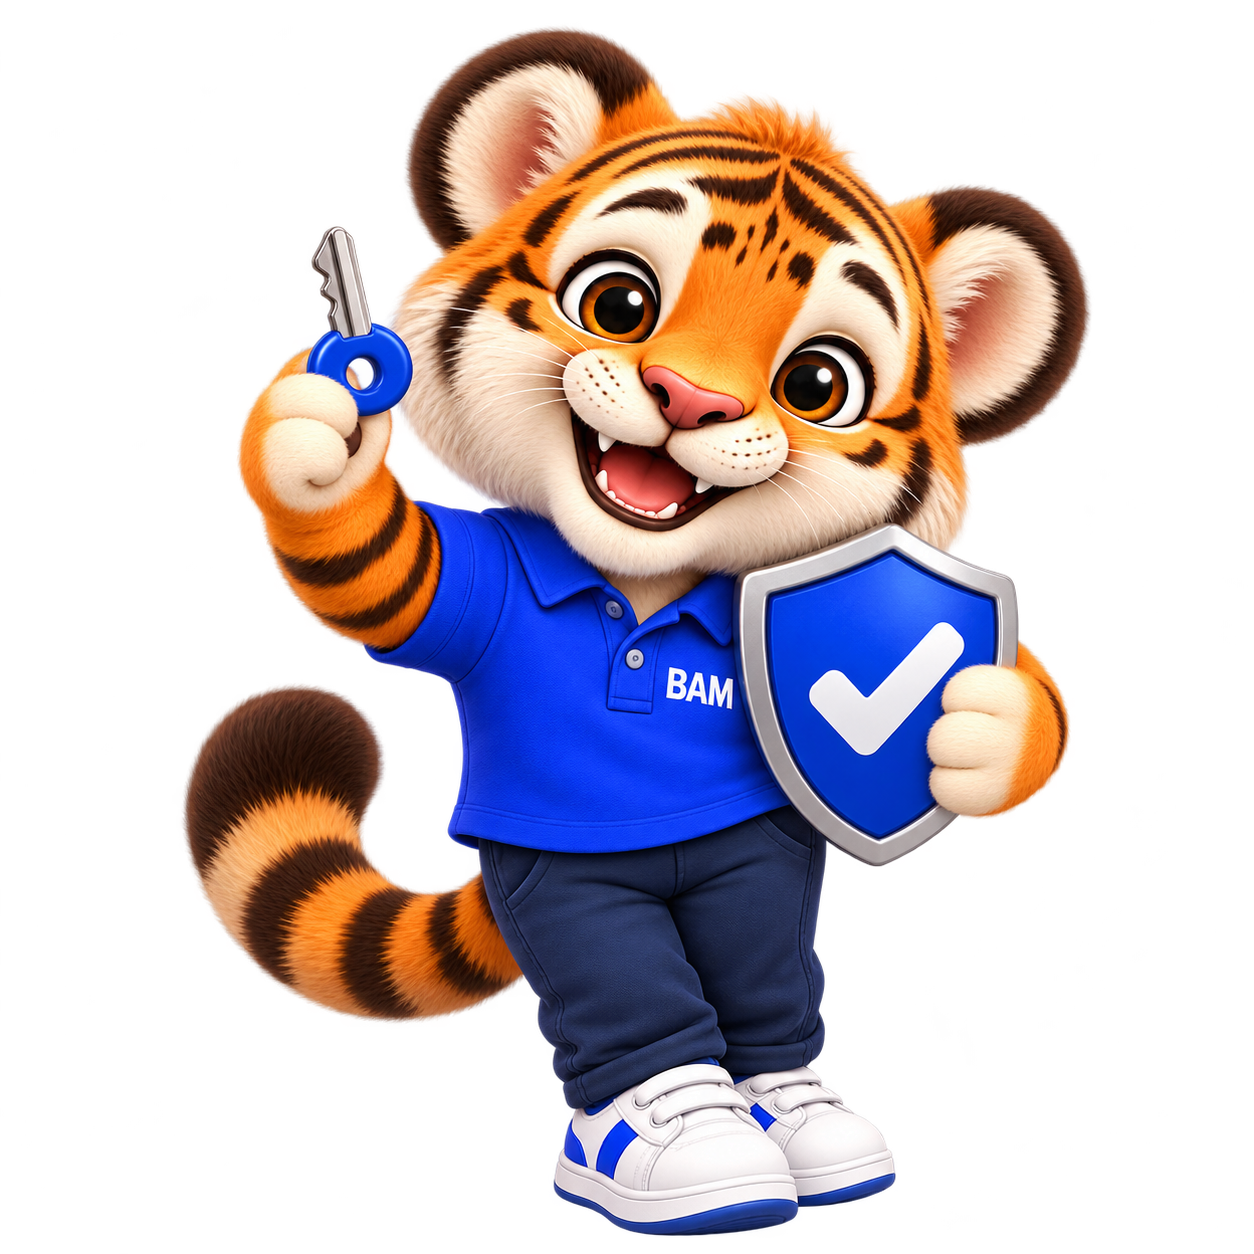
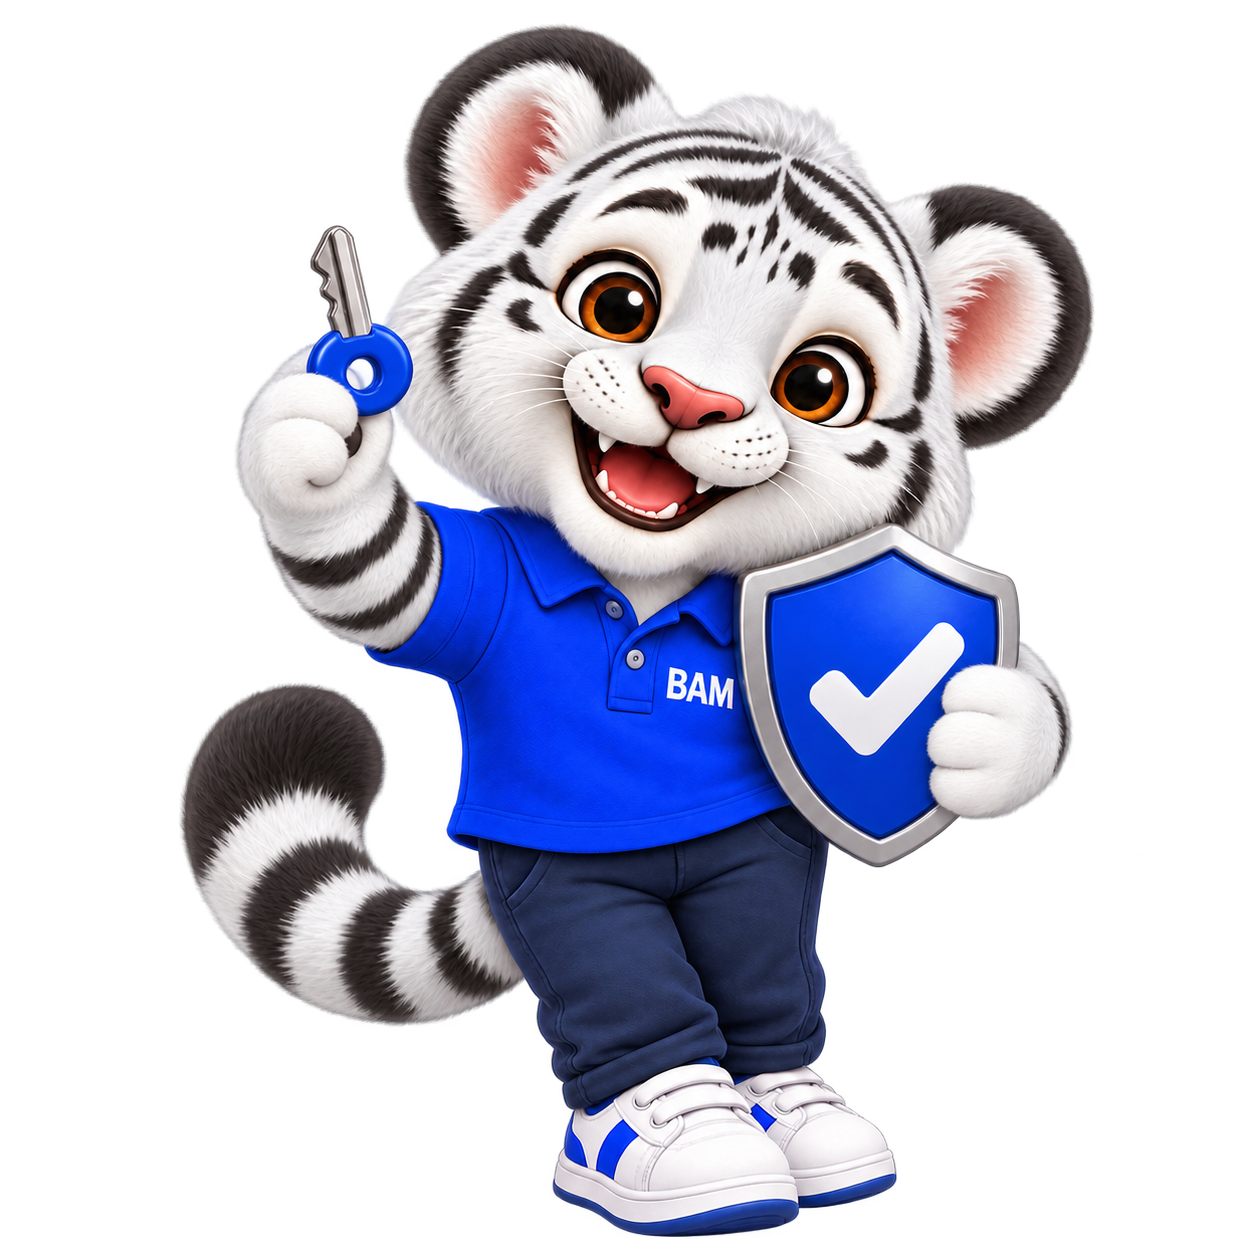
feat(ui): replace BAM tiger poses with white mascots (CR-029)

diff --git a/frontend/src/components/shared/mascot.tsx b/frontend/src/components/shared/mascot.tsx
@@ -1,16 +1,16 @@
 import Image from "next/image";
 import { cn } from "@/lib/utils";
 
-// The BAM tiger (D-094, CR-019): five poses, masters in public/brand/bam-mascot-*.png, served as trimmed
-// WebP exports. Never stretch, recolor or redraw it.
+// White BAM tiger (CR-029): PNG masters and matching WebP exports in public/brand.
+// White-specific filenames also refresh previously optimised orange-tiger images.
 const SOURCES = {
-  welcome: { src: "/brand/bam-mascot-welcome.webp", width: 493, height: 560 },
-  guide: { src: "/brand/bam-mascot-guide.webp", width: 514, height: 560 },
-  review: { src: "/brand/bam-mascot-review.webp", width: 469, height: 560 },
-  tracking: { src: "/brand/bam-mascot-tracking.webp", width: 397, height: 560 },
-  loading: { src: "/brand/bam-mascot-loading.webp", width: 428, height: 560 },
+  welcome: { src: "/brand/bam-mascot-welcome-white.webp", width: 493, height: 560 },
+  guide: { src: "/brand/bam-mascot-guide-white.webp", width: 514, height: 560 },
+  review: { src: "/brand/bam-mascot-review-white.webp", width: 469, height: 560 },
+  tracking: { src: "/brand/bam-mascot-tracking-white.webp", width: 397, height: 560 },
+  loading: { src: "/brand/bam-mascot-loading-white.webp", width: 428, height: 560 },
   // S01 login (CR-019 follow-up, bam-workplace-login-v7.html): presenting, with the staff badge.
-  login: { src: "/brand/bam-mascot-login.webp", width: 631, height: 640 }, // untrimmed, as the prototype frames it
+  login: { src: "/brand/bam-mascot-login-white.webp", width: 631, height: 640 },
 } as const;
 
 export type MascotPose = keyof typeof SOURCES;
@@ -21,22 +21,31 @@ type MascotProps = {
   size?: number;
   className?: string;
   priority?: boolean;
+  /** Flat contrasting backdrop; use none when the surrounding hero already provides contrast. */
+  surface?: "blue" | "sage" | "warm" | "none";
 };
 
 /** Decorative BAM mascot (`aria-hidden`). */
-export function Mascot({ pose = "welcome", size = 120, className, priority }: MascotProps) {
+export function Mascot({ pose = "welcome", size = 120, className, priority, surface = "blue" }: MascotProps) {
   const s = SOURCES[pose];
   const width = Math.round((s.width / s.height) * size);
   return (
-    <Image
-      src={s.src}
-      alt=""
+    <span
       aria-hidden="true"
-      width={width}
-      height={size}
-      priority={priority}
-      className={cn("pointer-events-none select-none object-contain", className)}
+      data-mascot={pose}
+      data-surface={surface}
+      className={cn("mascot-frame pointer-events-none relative inline-block shrink-0 select-none align-middle", className)}
       style={{ width, height: size }}
-    />
+    >
+      <Image
+        src={s.src}
+        alt=""
+        aria-hidden="true"
+        width={width}
+        height={size}
+        priority={priority}
+        className="mascot-image relative size-full object-contain"
+      />
+    </span>
   );
 }

diff --git a/frontend/src/app/(auth)/login/login.css b/frontend/src/app/(auth)/login/login.css
@@ -254,3 +254,36 @@
   .bl-spin { animation: none; }
 }
 
+/* CR-029: cool workplace palette and a full-height sage backdrop for the white tiger.
+   Keep the established composition and measured viewport fitting. */
+.bl-page { background: var(--background); color: var(--foreground); }
+.bl-title { color: var(--foreground); }
+.bl-title > span { color: var(--primary); }
+.bl-title > span::after { border-color: var(--mascot-blue); }
+.bl-brandCaption, .bl-description, .bl-accountNote, .bl-servicesTitle,
+.bl-mascotLabel, .bl-footer, .bl-footerHelp { color: var(--muted-foreground); }
+.bl-eyebrow { background: var(--secondary); color: var(--secondary-foreground); border-color: var(--border); }
+.bl-eyebrow > span { background: var(--primary); }
+.bl-help, .bl-serviceList > li, .bl-card, .bl-speech { background: var(--card); border-color: var(--border); }
+.bl-help, .bl-serviceList > li, .bl-cardEyebrow, .bl-room .bl-cardCopy p,
+.bl-account p, .bl-tags span, .bl-car .bl-tags span { color: var(--muted-foreground); }
+.bl-card h3, .bl-car h3 { color: var(--foreground); }
+.bl-help:hover { background: var(--secondary); border-color: var(--mascot-edge); }
+.bl-cta { border-color: var(--primary); background: var(--primary); color: var(--primary-foreground); }
+.bl-cta:hover:not(:disabled) { background: var(--secondary-foreground); }
+.bl-cta:focus-visible, .bl-help:focus-visible, .bl-footerHelp:focus-visible { outline-color: var(--ring); }
+.bl-maintenance, .bl-repairArt, .bl-check { background: var(--secondary); color: var(--primary); }
+.bl-repairArt > svg { stroke: var(--primary); box-shadow: 0 6px 0 var(--mascot-blue); }
+.bl-spark, .bl-speech span { color: var(--primary); }
+.bl-dot { background: var(--mascot-blue); }
+.bl-vehicle, .bl-carArt { background: color-mix(in srgb, var(--mascot-blue) 25%, var(--card)); color: var(--svc-car); }
+.bl-carArt > svg { stroke: var(--svc-car); }
+.bl-meeting, .bl-roomArt { background: color-mix(in srgb, var(--mascot-sage) 25%, var(--card)); color: var(--success); }
+.bl-roomArt > svg { stroke: var(--success); }
+.bl-slots i { background: var(--mascot-sage); }
+.bl-slots i:nth-child(2) { background: var(--success); }
+.bl-halo { inset: 0; border-radius: 40% 44% 30% 32%; background: var(--mascot-sage); border: 1px solid var(--mascot-edge); }
+.bl-mascot { padding: 8px; filter: drop-shadow(0 4px 3px rgb(23 32 51 / 18%)); }
+.bl-speech { color: var(--secondary-foreground); }
+@media (max-width: 1050px) { .bl-halo { inset: 0; } }
+

diff --git a/frontend/src/app/globals.css b/frontend/src/app/globals.css
@@ -58,6 +58,11 @@
   --svc-repair: #F97316;             /* แจ้งซ่อม */
   --svc-car: #0284C7;                /* จองรถ */
   --svc-room: #0D9488;               /* จองห้องประชุม */
+  /* CR-029: mid-tone surfaces separate white fur from light cards. */
+  --mascot-blue: #A9C2D8;
+  --mascot-sage: #ABC7BF;
+  --mascot-warm: #D2C0A3;
+  --mascot-edge: #7D9EB9;
 }
 
 /* Theme "โทนสบายตา" (D-069), built from the owner's palette #2741FA · #C5CBD3 · #8CBCB9 · #DDA448.
@@ -91,6 +96,10 @@
   --svc-repair: #C9822B;
   --svc-car: #3D8A84;
   --svc-room: #2F7FB0;
+  --mascot-blue: #AEC2D1;
+  --mascot-sage: #A3BFB9;
+  --mascot-warm: #CDBB9E;
+  --mascot-edge: #7D999F;
 }
 
 @theme inline {
@@ -146,6 +155,10 @@
   --color-svc-repair: var(--svc-repair);
   --color-svc-car: var(--svc-car);
   --color-svc-room: var(--svc-room);
+  --color-mascot-blue: var(--mascot-blue);
+  --color-mascot-sage: var(--mascot-sage);
+  --color-mascot-warm: var(--mascot-warm);
+  --color-mascot-edge: var(--mascot-edge);
 
   --shadow-card: 0 1px 2px rgb(24 34 56 / 0.04);                 /* panels */
   --shadow-raised: 0 10px 28px -16px rgb(24 34 56 / 0.25);       /* review card, success card, dialogs */
@@ -168,6 +181,21 @@
   background-color: color-mix(in srgb, var(--c) 14%, #fff);
   color: var(--c);
 }
+
+/* CR-029: local backdrops keep white ears, paws and shoes visible on every light surface.
+   The frame owns layout so responsive visibility and Home's absolute positioning still work. */
+.mascot-frame:not([data-surface="none"])::before {
+  content: "";
+  position: absolute;
+  inset: 0;
+  border-radius: 38% 42% 28% 32%;
+  background: var(--mascot-blue);
+  border: 1px solid color-mix(in srgb, var(--mascot-edge) 45%, transparent);
+}
+.mascot-frame[data-surface="sage"]::before { background: var(--mascot-sage); }
+.mascot-frame[data-surface="warm"]::before { background: var(--mascot-warm); }
+.mascot-frame:not([data-surface="none"]) .mascot-image { padding: 5%; }
+.mascot-image { filter: drop-shadow(0 2px 2px rgb(23 32 51 / 16%)); }
 
 /* S07 print report (A4). */
 @media print {

diff --git a/frontend/src/components/shared/states.tsx b/frontend/src/components/shared/states.tsx
@@ -22,11 +22,11 @@ export function EmptyState({ title, hint, action, className }: EmptyStateProps) 
   return (
     <div
       className={cn(
-        "flex flex-col items-center rounded-xl bg-linear-to-b from-secondary to-status-resolved/5 px-6 py-8 text-center",
+        "flex flex-col items-center rounded-xl border bg-card px-6 py-8 text-center",
         className,
       )}
     >
-      <Mascot pose="guide" size={120} />
+      <Mascot pose="guide" size={120} surface="sage" />
       <h3 className="mt-3 font-heading text-base font-semibold">{title}</h3>
       {hint && <p className="mt-1 text-[13.5px] text-muted-foreground">{hint}</p>}
       {action && <div className="mt-4">{action}</div>}
@@ -68,7 +68,7 @@ export function ErrorState({
   }
   return (
     <div role="alert" className={cn("flex flex-col items-center px-6 py-12 text-center", className)}>
-      <Mascot pose="loading" size={140} />
+      <Mascot pose="loading" size={140} surface="warm" />
       <h2 className="mt-4 font-heading text-lg font-semibold">{title}</h2>
       <p className="mt-1 text-[13.5px] text-muted-foreground">{hint}</p>
       {onRetry && (
@@ -98,7 +98,7 @@ export function ForbiddenState({
 }: ForbiddenStateProps) {
   return (
     <div className={cn("flex flex-col items-center px-6 py-12 text-center", className)}>
-      <Mascot pose="review" size={140} />
+      <Mascot pose="review" size={140} surface="blue" />
       <h2 className="mt-4 font-heading text-lg font-semibold">{title}</h2>
       {reason && <p className="mt-1 text-[13.5px] text-muted-foreground">{reason}</p>}
       <Button asChild className="mt-5">

diff --git a/frontend/src/modules/repair/components/dashboard/admin-dashboard.tsx b/frontend/src/modules/repair/components/dashboard/admin-dashboard.tsx
@@ -76,7 +76,7 @@ export function AdminDashboard() {
   if (state === "forbidden") return <ForbiddenState />;
 
   return <div className="px-4 pb-8 lg:px-0">
-    <div className="mt-2 mb-6 flex flex-wrap items-center gap-x-4 gap-y-3">
+    <div className="mt-2 mb-6 flex flex-wrap items-center gap-x-4 gap-y-3 rounded-2xl border border-mascot-edge/30 bg-mascot-blue/15 p-4 sm:p-5">
       <div className="flex min-w-60 flex-1 items-center gap-4">
         <Mascot pose="welcome" size={104} className="hidden shrink-0 sm:block" priority />
         <Mascot pose="welcome" size={76} className="shrink-0 sm:hidden" priority />
@@ -193,7 +193,7 @@ function AttentionPanel({ overview }: { overview: Overview | null }) {
   return <Panel title="งานที่ควรติดตาม" sub="เลยกำหนด ส่งกลับ หรือเร่งด่วน" count={overview?.attention.length} labelledBy="attention-title" className="flex flex-col">
     {!list ? <div className="space-y-2 px-5 pb-5">{[...Array(3)].map((_, i) => <Skeleton key={i} className="h-12" />)}</div>
       : list.length === 0 ? <div className="flex flex-col items-center gap-2 border-t px-5 py-6 text-center">
-          <Mascot pose="review" size={72} />
+          <Mascot pose="review" size={72} surface="sage" />
           <p className="text-sm text-muted-foreground">ไม่มีงานที่ต้องติดตาม</p>
         </div>
       : list.map((t) => {

diff --git a/frontend/src/modules/repair/components/ticket-detail.tsx b/frontend/src/modules/repair/components/ticket-detail.tsx
@@ -142,11 +142,11 @@ type Actions = ReturnType<typeof useTicketActions>;
 
 function ReviewBand({ ticket, actions }: { ticket: TicketDetail; actions: Actions }) {
   const autoClose = ticket.autoCloseAt ? `${shortDate(ticket.autoCloseAt, true)} เวลา ${timeOf(ticket.autoCloseAt)} น.` : "";
-  return <section aria-labelledby="review-title" className="bg-muted/40 px-4 pt-4 sm:px-7 sm:pt-5 print:hidden">
+  return <section aria-labelledby="review-title" className="border-y border-attention/15 bg-attention/5 px-4 pt-4 sm:px-7 sm:pt-5 print:hidden">
     <div className="grid gap-x-8 gap-y-3 md:grid-cols-[minmax(0,1fr)_auto] md:items-center">
       <div className="flex items-center gap-4">
-        <Mascot pose="review" size={96} className="hidden shrink-0 sm:block" />
-        <Mascot pose="review" size={72} className="shrink-0 sm:hidden" />
+        <Mascot pose="review" size={96} surface="warm" className="hidden shrink-0 sm:block" />
+        <Mascot pose="review" size={72} surface="warm" className="shrink-0 sm:hidden" />
         <div className="min-w-0">
           <h2 id="review-title" className="text-lg leading-7 font-semibold">ซ่อมเสร็จแล้ว งานซ่อมเป็นอย่างไรบ้าง?</h2>
           <p className="text-[13px] leading-5 text-muted-foreground">ตรวจผลซ่อมด้านล่าง แล้วให้คะแนนความพึงพอใจ</p>

diff --git a/frontend/src/modules/repair/components/report-success.tsx b/frontend/src/modules/repair/components/report-success.tsx
@@ -36,7 +36,7 @@ export function ReportSuccessScreen() {
   return <><PageHeader title="แจ้งซ่อมใหม่" variant="none" />
     {loading ? <TicketSkeleton success /> : error ? <TicketFailure error={error} onRetry={reload} success /> : ticket && (ticket.viewerRelation !== "reporter" ? <ForbiddenState reason="หน้านี้แสดงเฉพาะงานที่คุณแจ้ง" /> :
       <section aria-live="polite" className="mx-3 my-4 max-w-150 rounded-xl border bg-card px-4 py-6 text-center shadow-raised sm:mx-auto sm:px-8">
-        <div className="flex justify-center"><Mascot pose="welcome" size={120} priority /></div>
+        <div className="flex justify-center"><Mascot pose="welcome" size={120} surface="sage" priority /></div>
         <h1 ref={heading} tabIndex={-1} className="mt-2 text-2xl leading-9 font-semibold outline-none">{team ? "บันทึกงานทีมเรียบร้อย" : "รับเรื่องแล้ว"}</h1>
         <p className="mt-1 text-sm text-muted-foreground">เลขงานของคุณ</p>
         <CopyTicketNumber value={ticket.ticketNo} large />

diff --git a/frontend/src/app/(app)/page.tsx b/frontend/src/app/(app)/page.tsx
@@ -56,7 +56,7 @@ function EmployeeHome() {
         </header>
 
         <section className="relative mx-4 -mt-13.5 rounded-[26px] bg-card p-4.5 shadow-float">
-          <Mascot pose="welcome" size={104} className="absolute -top-25 right-3" />
+          <Mascot pose="welcome" size={104} surface="none" className="absolute -top-25 right-3" />
           <h2 className="font-heading text-lg font-semibold">เจออะไรเสีย บอก BAMBAM</h2>
           <p className="mt-0.5 mb-3.5 text-[13.5px] text-muted-foreground">ถ่ายรูป เลือกอาการ ส่งถึงช่างในหมวดนั้นทันที</p>
           <div className="flex gap-2.5">
@@ -120,7 +120,7 @@ function EmployeeHome() {
               <Link href="/repair/my">ติดตามงานซ่อม</Link>
             </Button>
           </div>
-          <Mascot pose="welcome" size={208} className="absolute right-17 -bottom-1.5" />
+          <Mascot pose="welcome" size={184} surface="none" className="absolute right-17 bottom-2" />
         </section>
 
         <div className="my-5 grid grid-cols-3 gap-4.5">

diff --git a/frontend/src/modules/repair/components/my-tickets.tsx b/frontend/src/modules/repair/components/my-tickets.tsx
@@ -116,7 +116,7 @@ export function MyTicketsScreen() {
   return <div className="space-y-4 px-4 pt-4 pb-8 lg:space-y-5 lg:px-0 lg:pt-2">
     <div className="grid gap-4 lg:grid-cols-[minmax(0,1fr)_23rem] lg:gap-5">
       {/* Leads' CTA card holds two buttons, so their hero scales up to fill the taller row (owner, 2026-10-26). */}
-      <header className={cn("flex items-center gap-4 rounded-xl border bg-card px-4 py-4 shadow-card sm:px-8 sm:py-5", lead ? "sm:gap-7" : "sm:gap-6")}>
+      <header className={cn("flex items-center gap-4 rounded-xl border border-mascot-edge/35 bg-mascot-blue/15 px-4 py-4 shadow-card sm:px-8 sm:py-5", lead ? "sm:gap-7" : "sm:gap-6")}>
         <Mascot pose="tracking" size={lead ? 160 : 120} className="hidden shrink-0 sm:block" priority />
         <Mascot pose="tracking" size={84} className="shrink-0 sm:hidden" priority />
         <div className="min-w-0">

diff --git a/frontend/src/modules/settings/components/settings-heading.tsx b/frontend/src/modules/settings/components/settings-heading.tsx
@@ -32,7 +32,9 @@ export function SettingsHeading({ title, subtitle, action }: Props) {
           <h1 className="font-heading text-2xl leading-tight font-semibold lg:text-3xl">{title}</h1>
           {subtitle && <p className="mt-1.5 text-[13.5px] text-muted-foreground">{subtitle}</p>}
         </div>
-        <Image src={mascot.src} alt={mascot.alt} width={112} height={112} className="size-18 shrink-0 object-contain lg:size-28" />
+        <span aria-hidden="true" data-mascot="settings" data-surface={me.role === "super_admin" ? "blue" : "sage"} className="mascot-frame relative size-18 shrink-0 lg:size-28">
+          <Image src={mascot.src} alt={mascot.alt} width={112} height={112} className="mascot-image relative size-full object-contain" />
+        </span>
       </div>
       {action && <div className="ml-11 shrink-0 lg:ml-0">{action}</div>}
     </div>

diff --git a/frontend/src/modules/repair/components/report-form.tsx b/frontend/src/modules/repair/components/report-form.tsx
@@ -489,7 +489,7 @@ function ReportFormBody({ team, canTeam }: { team: boolean; canTeam: boolean }) 
         <li aria-current="page" className="text-foreground">{team ? "บันทึกงานที่ทีมแก้แล้ว" : "แจ้งซ่อมใหม่"}</li>
       </ol>
     </nav>
-    <div className="mt-3 mb-4 flex flex-wrap items-center gap-x-5 gap-y-1 lg:mb-5">
+    <div className="mt-3 mb-4 flex flex-wrap items-center gap-x-5 gap-y-1 rounded-2xl border border-mascot-edge/30 bg-mascot-blue/15 p-4 lg:mb-5 lg:p-5">
       <Mascot pose="guide" size={120} className="hidden shrink-0 sm:block" priority />
       <Mascot pose="guide" size={88} className="shrink-0 sm:hidden" priority />
       <div className="min-w-0 flex-1 basis-48">

diff --git a/frontend/src/app/(auth)/login/login-card.tsx b/frontend/src/app/(auth)/login/login-card.tsx
@@ -150,7 +150,7 @@ export function LoginScreen({ signedOut = false }: { signedOut?: boolean }) {
         <div aria-hidden className="bl-scene">
           <div className="bl-speech">พร้อมช่วยดูแลครับ <span>✦</span></div>
           <div className="bl-halo" />
-          <Image src="/brand/bam-mascot-login.webp" alt="" width={631} height={640} priority className="bl-mascot" />
+          <Image src="/brand/bam-mascot-login-white.webp" alt="" width={631} height={640} priority className="bl-mascot" />
           <span className="bl-mascotLabel">YOUR WORKPLACE BUDDY</span>
         </div>
 
